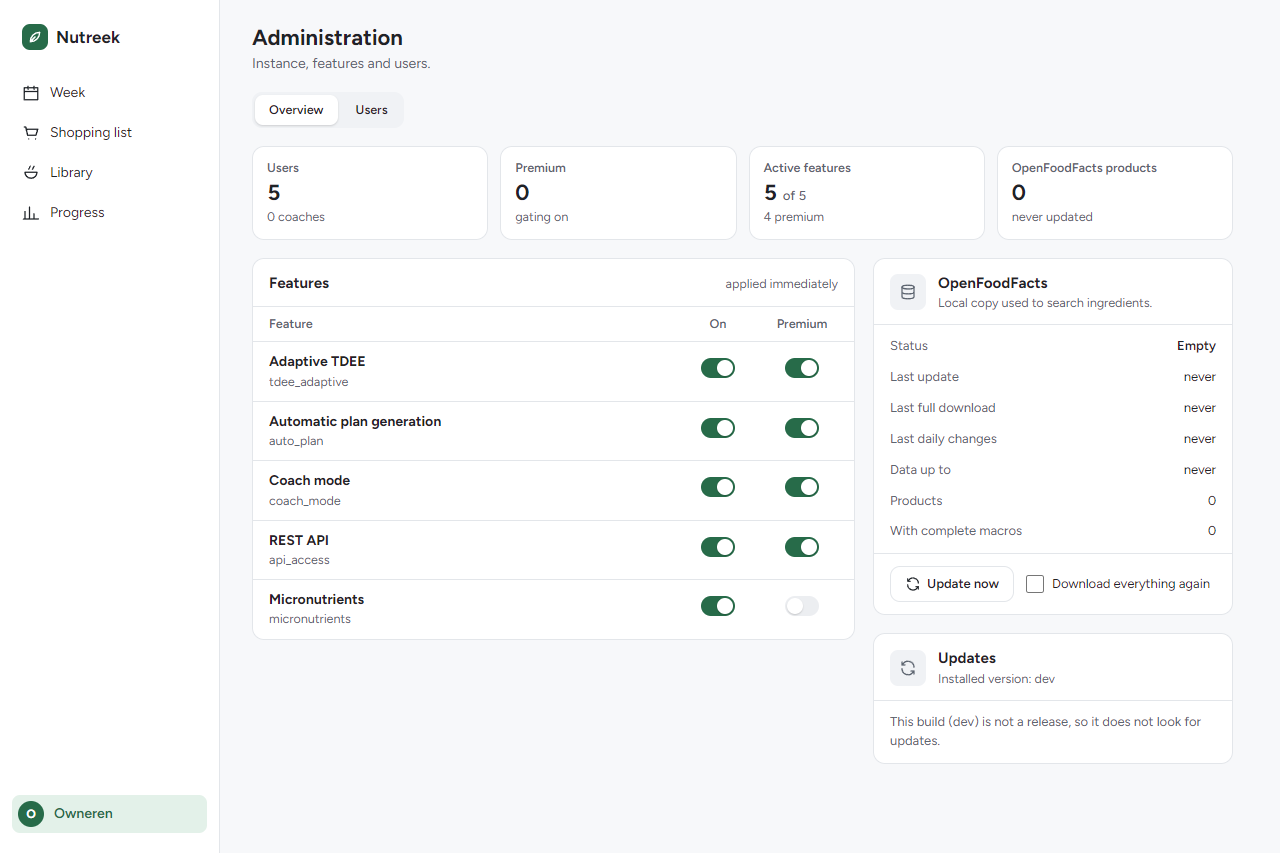
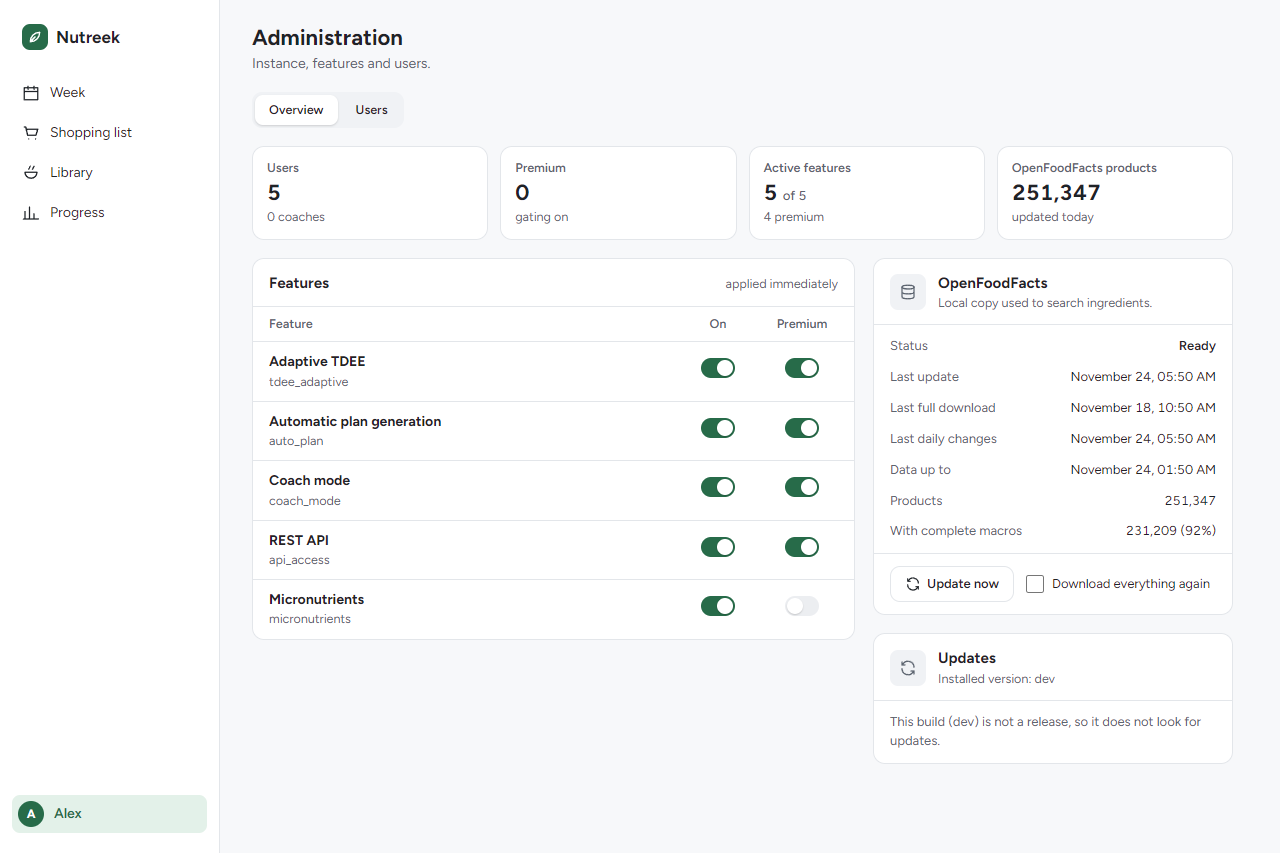
docs(changelog): close the 3.0.0 section
The Unreleased entries become 3.0.0, dated 2026-11-24, with a short intro and a
note about the migrations. The administration screenshots show a populated local
OpenFoodFacts copy.

Refs #251

diff --git a/CHANGELOG.md b/CHANGELOG.md
@@ -10,6 +10,12 @@ The entries up to 2.0.0 link to issues and pull requests written in Italian: the
 
 ## [Unreleased]
 
+---
+
+## [3.0.0] — 2026-11-24
+
+The interface is rebuilt in a new direction, «Registro»: rows and rules instead of cards, on phone and desktop. Stores, household, reminders, a move and replace for rows, and a calmer shopping list come with it. Migrations 0041 to 0051 run on the first start; as always there is no downgrade, so back up the database first.
+
 ### Added
 - Activities of your own in the workout log: «Add your own activity» in the workout form gives it a name and a calorie rate. Each workout has a time of the day, and the kcal are estimated from your latest weigh-in and shown as an estimate. A new switch in Settings, «Workouts raise the goal» (off by default), adds the burned kcal to the day's goal (migration 0050) (#287, #289)
 - A setting to hide the recipe photos in the recipe list, in «Lists» in Settings. They are on by default, and a smaller photo on a phone leaves more room for the name (migration 0051) (#297, #299)
